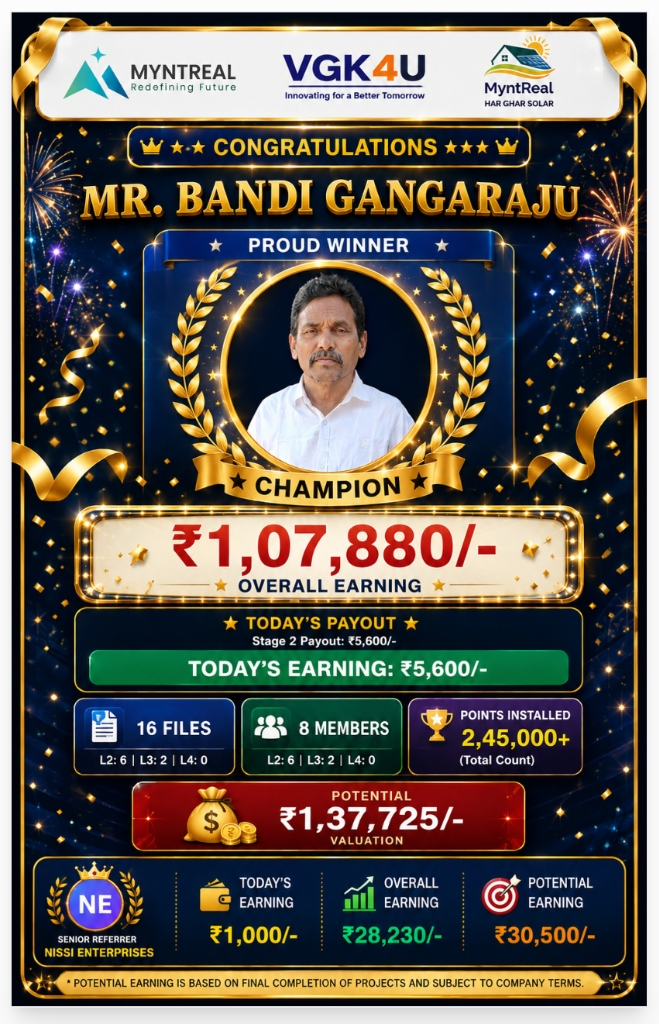
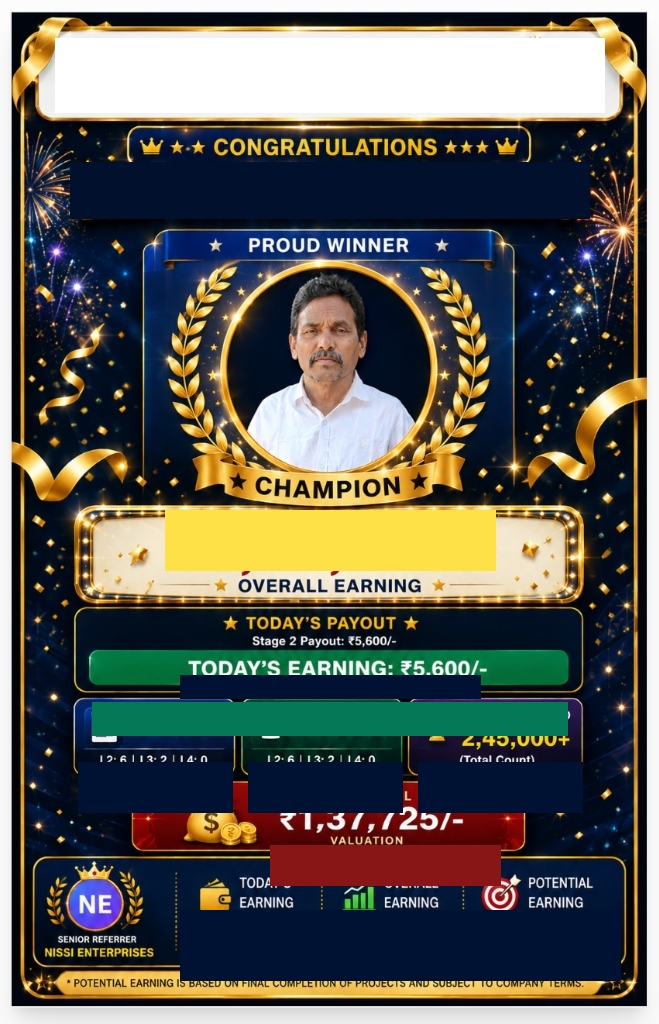
Erase burnt-in placeholder text from template background JPEG to fix duplicate text and overflow

diff --git a/MyntReal_Latest/frontend/staff_vgk_members.html b/MyntReal_Latest/frontend/staff_vgk_members.html
@@ -7429,39 +7429,39 @@ function _renderCommDetailTable(partnerId) {
           <!-- BOTTOM ZONE (Footer Zone - Full Width) -->
           <div style="position:relative;z-index:3;display:flex;flex-direction:column;gap:3px;margin-bottom:1px">
             <!-- Senior Referrer Footer Container Bar -->
-            <div id="prevSeniorRow" style="background:#001233;border:1.5px solid #fde047;border-radius:14px;padding:8px 12px;width:420px;margin:0 auto;box-shadow:0 6px 25px rgba(0,0,0,0.9);display:flex;align-items:center;justify-content:space-between">
+            <div id="prevSeniorRow" style="background:#001233;border:1.5px solid #fde047;border-radius:14px;padding:6px 8px;width:100%;box-sizing:border-box;box-shadow:0 6px 25px rgba(0,0,0,0.9);display:flex;align-items:center;justify-content:space-between;margin:0 auto">
               
               <!-- Senior Referrer Avatar & Red Ribbon Badge -->
               <div style="display:flex;flex-direction:column;align-items:center;flex-shrink:0;position:relative">
-                <div style="width:52px;height:52px;border-radius:50%;border:2.5px solid #fde047;box-shadow:0 0 14px rgba(251,191,36,0.7);overflow:hidden;background:#001233;display:flex;align-items:center;justify-content:center;position:relative">
+                <div style="width:48px;height:48px;border-radius:50%;border:2.5px solid #fde047;box-shadow:0 0 14px rgba(251,191,36,0.7);overflow:hidden;background:#001233;display:flex;align-items:center;justify-content:center;position:relative">
                   <img id="prevSeniorImg" src="" crossorigin="anonymous" style="width:100%;height:100%;object-fit:cover;display:none">
-                  <div id="prevSeniorAvatar" style="width:100%;height:100%;display:flex;align-items:center;justify-content:center;background:linear-gradient(135deg,#1d4ed8,#7c3aed);color:white;font-size:20px;font-weight:900">NE</div>
+                  <div id="prevSeniorAvatar" style="width:100%;height:100%;display:flex;align-items:center;justify-content:center;background:linear-gradient(135deg,#1d4ed8,#7c3aed);color:white;font-size:18px;font-weight:900">NE</div>
                 </div>
                 <!-- Red Ribbon Banner Overlay for Senior Name -->
                 <div style="background:linear-gradient(180deg,#dc2626 0%,#991b1b 100%);border:1px solid #fde047;border-radius:8px;padding:2px 6px;margin-top:-8px;z-index:4;box-shadow:0 2px 6px rgba(0,0,0,0.4);white-space:nowrap">
-                  <div style="font-size:7.5px;font-weight:950;color:#ffffff;letter-spacing:0.5px">SENIOR REFERRER</div>
+                  <div style="font-size:7px;font-weight:950;color:#ffffff;letter-spacing:0.5px">SENIOR REFERRER</div>
                 </div>
               </div>
 
               <!-- Senior Referrer 3 Distinct Data Columns WITH ICONS -->
-              <div style="display:flex;flex:1;justify-content:space-around;align-items:center;gap:6px">
+              <div style="display:flex;flex:1;justify-content:space-around;align-items:center;gap:4px">
                 <!-- Senior Name Header + Today's Earning -->
                 <div style="display:flex;flex-direction:column;text-align:center">
-                  <div id="prevSeniorName" style="font-size:9.5px;font-weight:950;color:#ffffff;text-transform:uppercase;margin-bottom:2px;white-space:nowrap;overflow:hidden;text-overflow:ellipsis">NISSI ENTERPRISES</div>
-                  <div style="font-size:7.5px;font-weight:900;color:#94a3b8;letter-spacing:0.5px;text-transform:uppercase">👛 TODAY'S EARNING</div>
-                  <div id="prevSeniorToday" style="font-size:12px;font-weight:950;color:#fde047;text-transform:uppercase;line-height:1.1">₹1,000/-</div>
+                  <div id="prevSeniorName" style="font-size:9px;font-weight:950;color:#ffffff;text-transform:uppercase;margin-bottom:2px;white-space:nowrap;overflow:hidden;text-overflow:ellipsis;max-width:90px">NISSI ENTERPRISES</div>
+                  <div style="font-size:7px;font-weight:900;color:#94a3b8;letter-spacing:0.3px;text-transform:uppercase">👛 TODAY'S EARNING</div>
+                  <div id="prevSeniorToday" style="font-size:11px;font-weight:950;color:#fde047;text-transform:uppercase;line-height:1.1">₹1,000/-</div>
                 </div>
                 
                 <!-- Overall Earnings Column -->
-                <div style="display:flex;flex-direction:column;text-align:center;border-left:1px solid rgba(255,255,255,0.15);padding-left:6px">
-                  <div style="font-size:7.5px;font-weight:900;color:#94a3b8;letter-spacing:0.5px;text-transform:uppercase">📈 OVERALL EARNING</div>
-                  <div id="prevSeniorEarning" style="font-size:12px;font-weight:950;color:#34d399;text-transform:uppercase;line-height:1.1">₹28,230/-</div>
+                <div style="display:flex;flex-direction:column;text-align:center;border-left:1px solid rgba(255,255,255,0.15);padding-left:4px">
+                  <div style="font-size:7px;font-weight:900;color:#94a3b8;letter-spacing:0.3px;text-transform:uppercase">📈 OVERALL EARNING</div>
+                  <div id="prevSeniorEarning" style="font-size:11px;font-weight:950;color:#34d399;text-transform:uppercase;line-height:1.1">₹28,230/-</div>
                 </div>
 
                 <!-- Potential Earnings Column -->
-                <div style="display:flex;flex-direction:column;text-align:center;border-left:1px solid rgba(255,255,255,0.15);padding-left:6px">
-                  <div style="font-size:7.5px;font-weight:900;color:#94a3b8;letter-spacing:0.5px;text-transform:uppercase">🎯 POTENTIAL EARNING</div>
-                  <div id="prevSeniorPotential" style="font-size:12px;font-weight:950;color:#fb923c;text-transform:uppercase;line-height:1.1">₹30,500/-</div>
+                <div style="display:flex;flex-direction:column;text-align:center;border-left:1px solid rgba(255,255,255,0.15);padding-left:4px">
+                  <div style="font-size:7px;font-weight:900;color:#94a3b8;letter-spacing:0.3px;text-transform:uppercase">🎯 POTENTIAL EARNING</div>
+                  <div id="prevSeniorPotential" style="font-size:11px;font-weight:950;color:#fb923c;text-transform:uppercase;line-height:1.1">₹30,500/-</div>
                 </div>
               </div>
 
